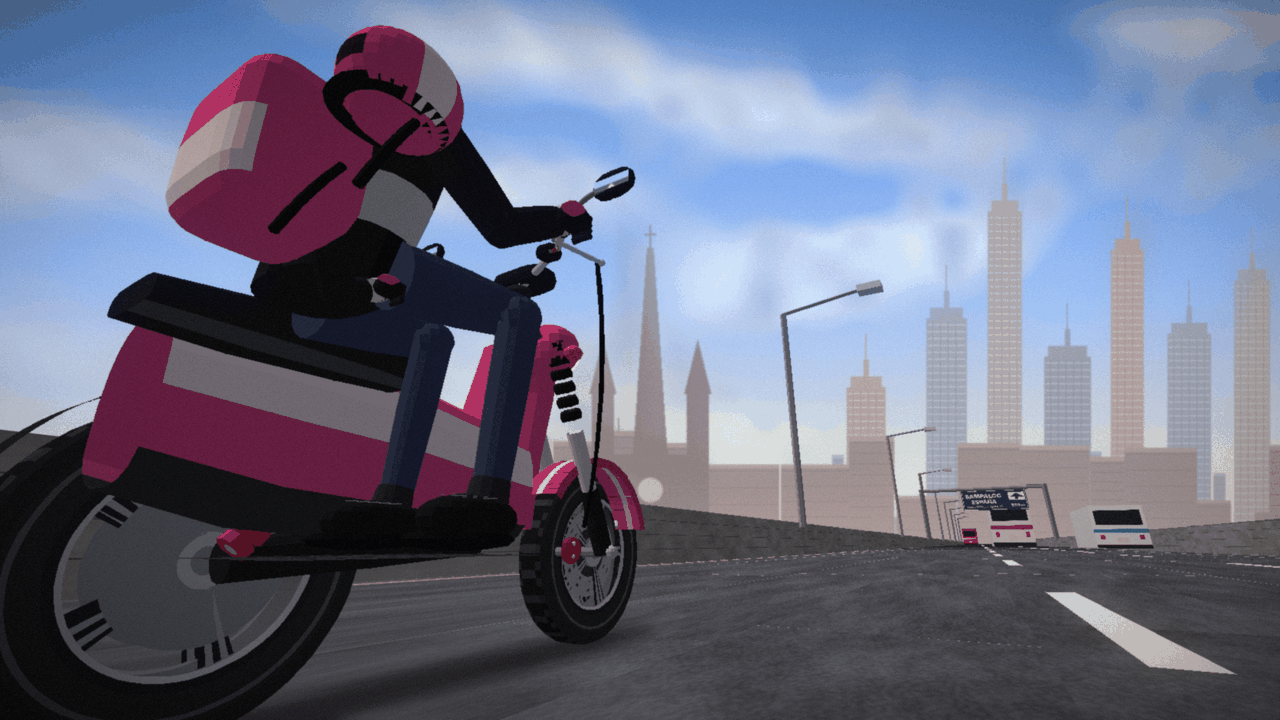
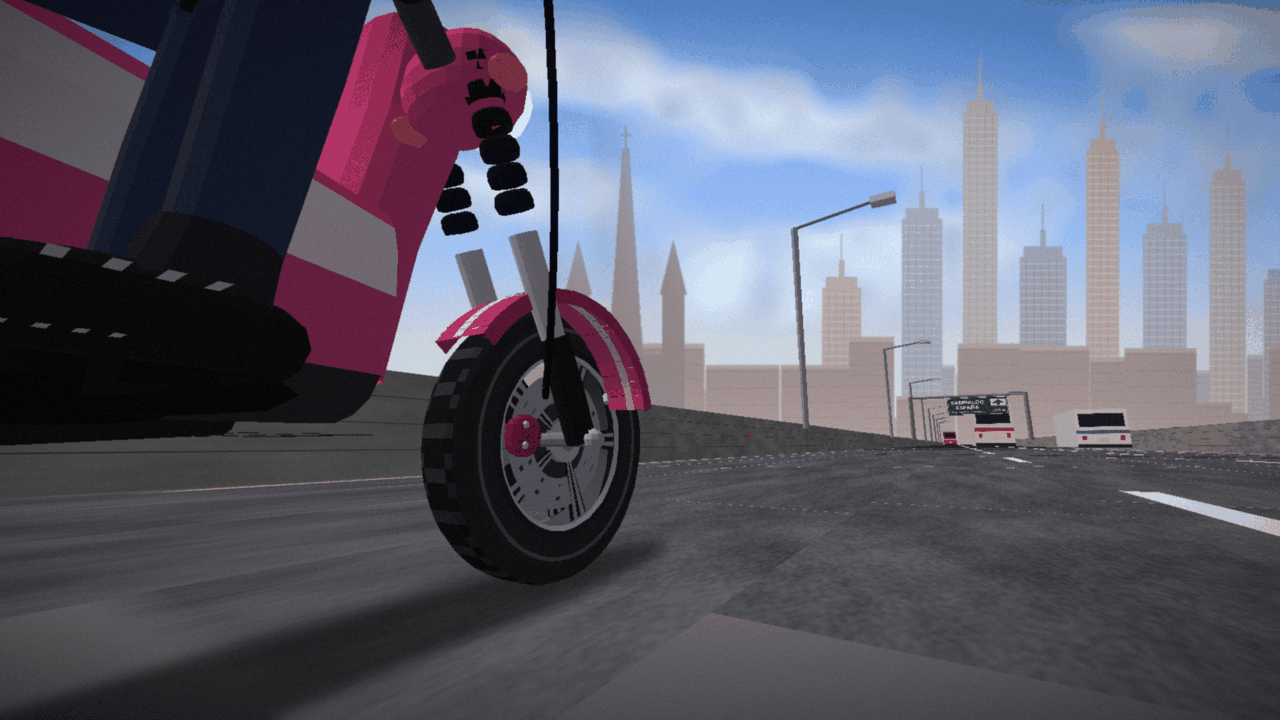
feat(art): put the skyway camera right at the front wheel, with the scooter still in view
Claude-Session: https://claude.ai/code/session_018qtt7uTeVSGsnvQanUjafP

diff --git a/tools/intro_frames.py b/tools/intro_frames.py
@@ -297,9 +297,9 @@ def vehicle_rear(w, h, body, stripe, seed):
 
 def build_skyway(size):
     w, h = size
-    cam_x, cam_z = 1.3, -1.75
-    camera = s3.Camera((cam_x, 0.34, cam_z), -31.0, 19.0, 68.0, size)
-    vp = camera.project((cam_x, 0.34, 100000.0))
+    cam_x, cam_z = 0.8, -0.85
+    camera = s3.Camera((cam_x, 0.3, cam_z), -33.0, 10.0, 74.0, size)
+    vp = camera.project((cam_x, 0.3, 100000.0))
     horizon_y, vp_x = int(vp[1]), int(vp[0])
 
     # ---- the backdrop: sky, clouds, Manila, and plain road colour below the horizon
@@ -310,10 +310,10 @@ def build_skyway(size):
     ground = np.zeros_like(arr)
     ys = np.arange(h, dtype=np.float32)
     t = np.clip((ys - horizon_y) / max(h - horizon_y, 1), 0, 1) ** 0.6
-    for c, (far_c, near_c) in enumerate(((176, 70), (166, 70), (156, 76))):
+    for c, (far_c, near_c) in enumerate(((176, 84), (166, 84), (156, 90))):
         ground[:, :, c] = (far_c + (near_c - far_c) * t)[:, None]
     mask = (ys >= horizon_y + 160)[:, None, None].astype(np.float32)   # only well below the horizon; the roofs sit above
-    blend = np.clip((ys - horizon_y - 120) / 90.0, 0, 1)[:, None, None]
+    blend = np.clip((ys - horizon_y - 44 * w / 1672) / (40 * w / 1672), 0, 1)[:, None, None]
     arr = arr * (1 - blend) + ground * blend
     back = Image.fromarray(np.clip(arr, 0, 255).astype(np.uint8)).convert("RGBA")
 
@@ -327,7 +327,7 @@ def build_skyway(size):
     for si in range(len(xs_edges) - 1):
         xa, xb = xs_edges[si], xs_edges[si + 1]
         z_start = -3.0
-        while z_start < 400 and min(camera.view((x, 0.0, z_start))[2] for x in (xa, xb)) < 0.15:
+        while z_start < 400 and min(camera.view((x, 0.0, z_start))[2] for x in (xa, xb)) < 0.3:
             z_start += 0.25
         marks = [z_start] + [z for z in (z_start + 2.0, z_start + 7.0, 14.0, 40.0, 120.0, 400.0) if z > z_start]
         for zi in range(len(marks) - 1):
@@ -405,7 +405,7 @@ def road_strips(env, camera, x0, x1, make_texture, tint=(120, 118, 122), count=1
     for si in range(count):
         xa, xb = xs[si], xs[si + 1]
         z_start = -3.0
-        while z_start < 100 and min(camera.view((x, 0.0, z_start))[2] for x in (xa, xb)) < 0.15:
+        while z_start < 100 and min(camera.view((x, 0.0, z_start))[2] for x in (xa, xb)) < 0.3:
             z_start += 0.25
         marks = [z_start] + [z for z in (z_start + 2.0, z_start + 7.0, 16.0, 40.0, 100.0) if z > z_start]
         for zi in range(len(marks) - 1):

diff --git a/HANDOFF.md b/HANDOFF.md
@@ -175,8 +175,8 @@ Each is a tagged release on `main`. `git log --oneline` and `git tag -l` show th
   handlebar dashboard and phone showing Gwen's text). Both new frames are drawn from nothing in 3D by
   `tools/intro_frames.py`; the scooter, wheels and Peter are lofted shapes in `tools/bike_parts.py`
   (`loft`, `ellipsoid`, `limb`; no game art). `tokhang_rider.png` and its drawing function are gone. Frame 3
-  has no line and holds 3.5 s. Stand-ins, listed in `PLACEHOLDERS.txt`. Frame 1's camera is close to the wheels
-  (rear wheel, body, Peter all in view); frame 3's is close behind Peter and the street is a full palengke
+  has no line and holds 3.5 s. Stand-ins, listed in `PLACEHOLDERS.txt`. Frame 1's camera is super near the front wheel
+  (about 1.2 m away, low) with the legshield, headlight, rider's knee and boot, floorboard and handlebar still in view; frame 3's is close behind Peter and the street is a full palengke
   filled by `tools/market_parts.py` (vendors and shoppers, veg/fish/meat/fruit/rice/isaw stalls with price
   cards and sign boards, tarpaulin roofs, tangled wires, a parked jeepney, crates and litter). Frame 3 takes
   about 40 seconds to render.
